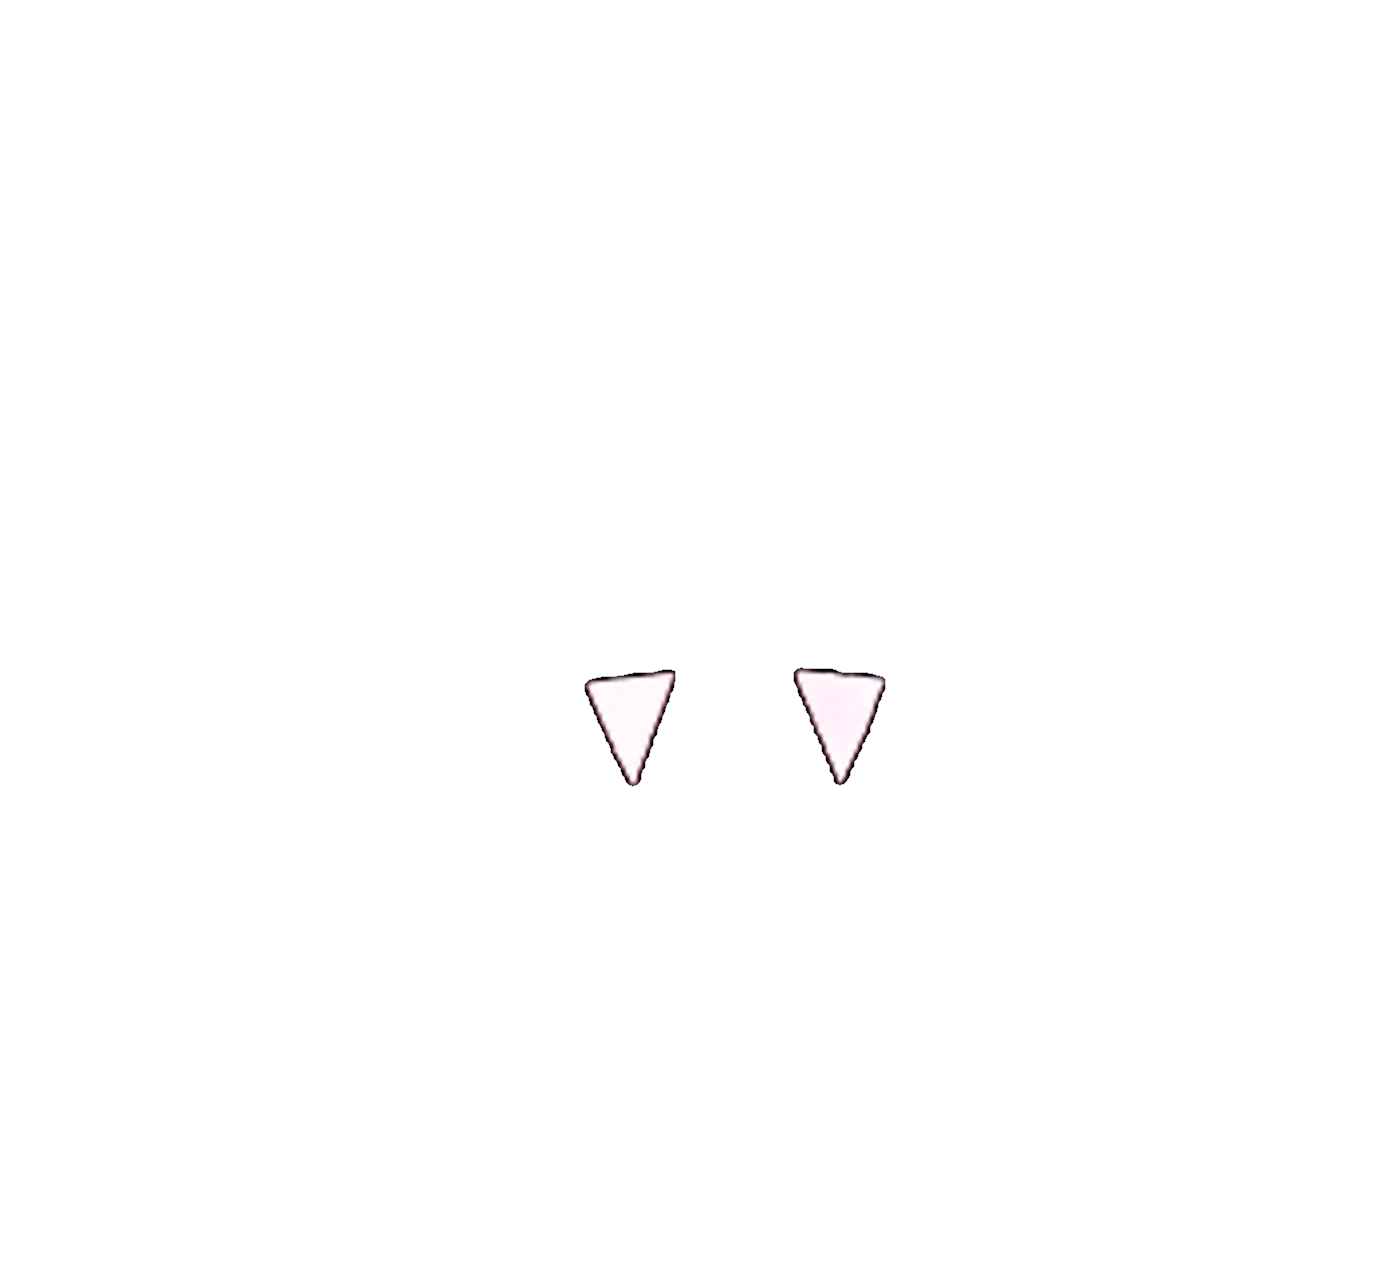
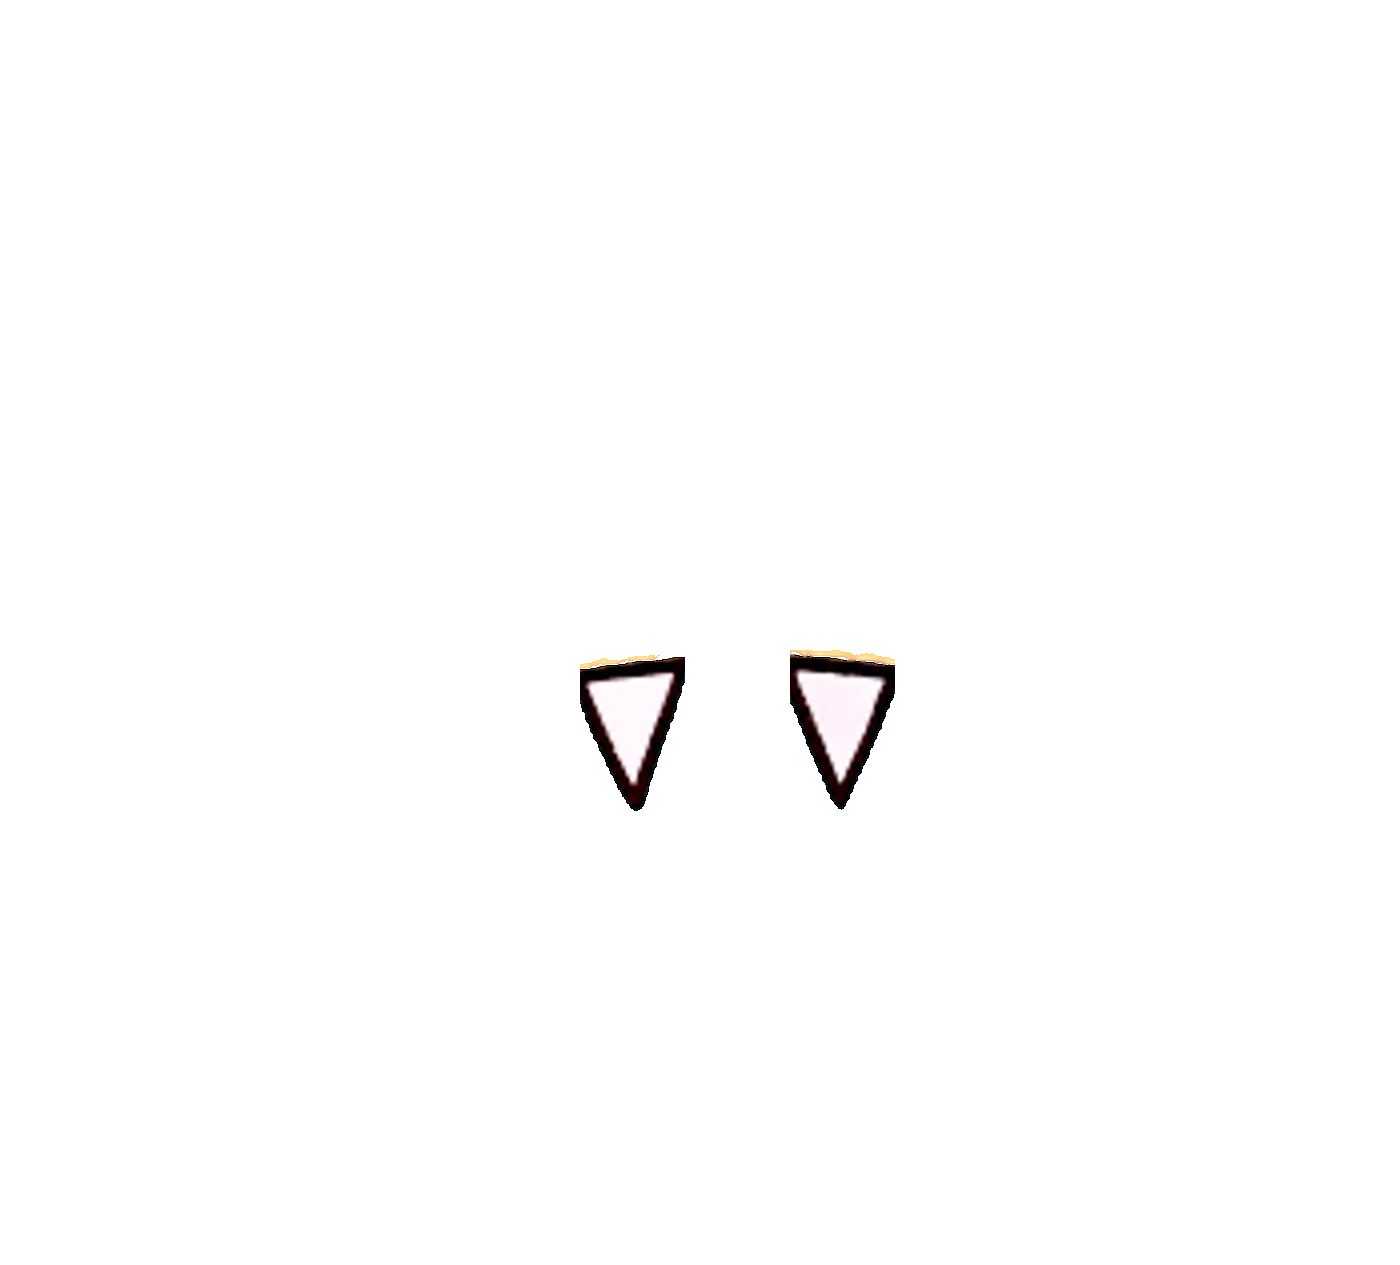
fix: перенос полного оригинального черного контура клыков льва из исходника

Changed region(s): [[0.5529, 0.4933, 0.645, 0.6474], [0.3993, 0.4933, 0.4914, 0.6474]]

diff --git a/src/components/ServiceDetailPage.tsx b/src/components/ServiceDetailPage.tsx
@@ -674,7 +674,7 @@ export const ServiceDetailPage: React.FC<ServiceDetailPageProps> = ({
 
           {/* LION TEETH OVERLAY (Layer 20, hooks over the top edge of orange card) */}
           <img
-            src="/assets/lion-teeth.webp?v=5"
+            src="/assets/lion-teeth.webp?v=6"
             alt=""
             aria-hidden="true"
             className="cta-lion-teeth select-none"
